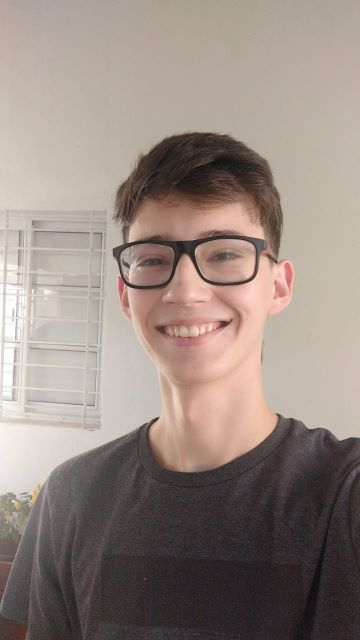
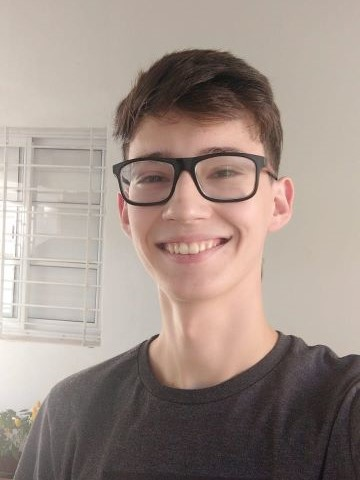
Fixed css and resized profile pic

diff --git a/css/small.css b/css/small.css
@@ -30,6 +30,8 @@ header {
 
 header img {
     box-shadow: 0px 0px 10px 1px black;
+    width: 120px;
+    height: auto;
 }
 
 header h1 {
